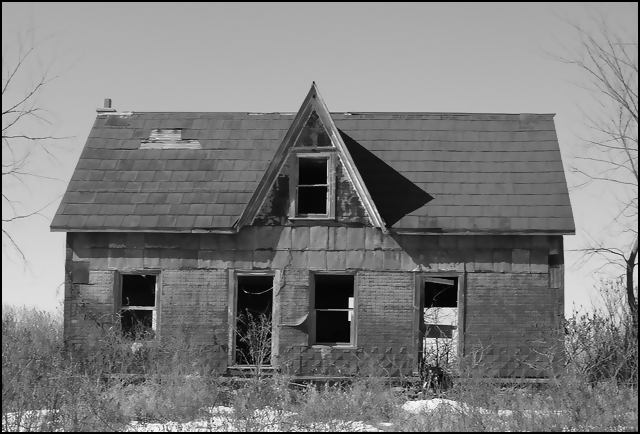
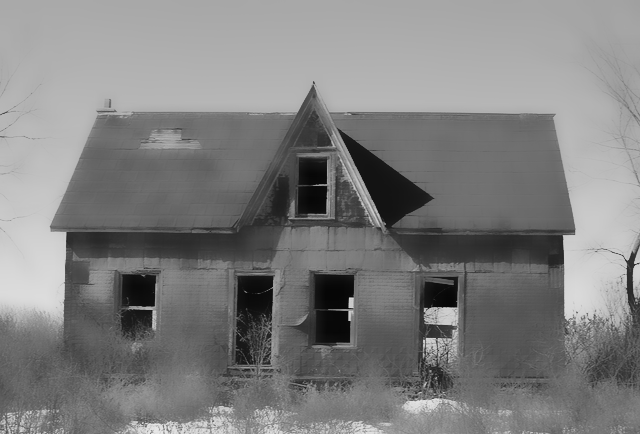
Filter in LAB space to avoid floating point approximation mistakes

diff --git a/bilateral_filter.py b/bilateral_filter.py
@@ -1,8 +1,81 @@
 import numpy as np
 from PIL import Image
 import sys
-import scipy.signal
+from skimage import color
 
+class colors():
+    
+    def compute_LAB(self):
+        try:
+            self.LAB = color.rgb2lab(self.RGB/255.0)
+        except:
+            self.LAB = np.dstack((self.RGB/255.0, 
+                        np.zeros_like(self.RGB), 
+                        np.zeros_like(self.RGB)))
+        
+    def compute_RGB(self):
+        self.RGB = color.lab2rgb(self.LAB) * 255.0
+        self.RGB = self.RGB.astype(np.uint8)
+          
+    @property
+    def R(self):
+        return self.RGB[..., 0]
+    
+    @property
+    def G(self):
+        return self.RGB[..., 1]
+    
+    @property
+    def B(self):
+        return self.RGB[..., 2]
+    
+    @property
+    def L(self):
+        return self.LAB[..., 0]
+    
+    @property
+    def A(self):
+        return self.LAB[..., 1]
+    
+    @property
+    def B(self):
+        return self.LAB[..., 2]
+    
+    @R.setter
+    def R(self, R):
+        self.RGB[..., 0] = R
+        
+    @G.setter
+    def G(self, G):
+        self.RGB[..., 1] = G
+    
+    @B.setter
+    def B(self, B):
+        self.RGB[..., 2] = B
+    
+    @L.setter
+    def L(self, L):
+        self.LAB[..., 0] = L
+        
+    @A.setter
+    def A(self, A):
+        self.LAB[..., 1] = A
+        
+    @B.setter
+    def B(self, B):
+        self.LAB[..., 2] = B
+        
+    
+    def __init__(self, picture):
+        self.RGB = np.array(picture)
+        
+        try:
+            if self.RGB.shape[2] != 3:
+                self.RGB = np.dstack((self.RGB, self.RGB, self.RGB))
+        except:
+            self.RGB = np.dstack((self.RGB, self.RGB, self.RGB))
+            
+        self.compute_LAB()
 
 def gaussian(x, sigma):
     return (1.0 / (2 * np.pi * (sigma ** 2))) * np.exp(- (x ** 2) / (2 * sigma ** 2))
@@ -31,19 +104,20 @@ def bilateral_filter(source, radius, std_i, std_s):
             W += w
             filtered_image += neighbour * w
 
-    return np.around(filtered_image / W).astype(np.uint8)
+    return filtered_image / W
 
 
 if __name__ == "__main__":
 
-    src = cv2.imread(str(sys.argv[1]), 0)
+    src = str(sys.argv[0])
+    #src = "original_image_grayscale.png"
     dest = "filtered_image_own.png"
 
     with Image.open(src) as pic:
 
-        pic = np.array(pic)
+        pic = colors(pic)
+        pic.L = bilateral_filter(pic.L, 4, 16.0, 12.0)
+        pic.compute_RGB()
 
-        filtered_image = bilateral_filter(pic, 5, 1, 3)
-
-        with Image.fromarray(filtered_image) as output:
-            output.save(dest, mode="L")
+        with Image.fromarray(pic.RGB) as output:
+            output.save(dest)
